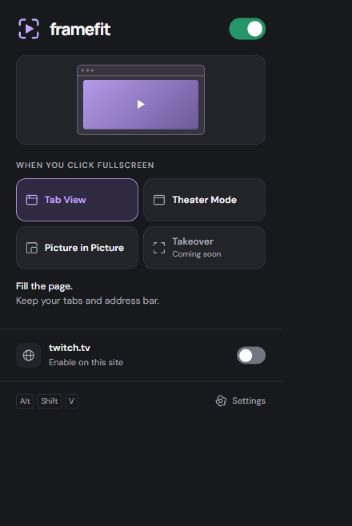
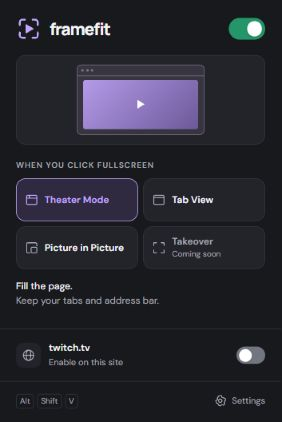
Release FrameFit 2.5.1 with corrected viewing mode names

diff --git a/README.md b/README.md
@@ -2,12 +2,12 @@
 
 # FrameFit Extension
 
-Current version: **2.5.0**
+Current version: **2.5.1**
 
 [Download FrameFit Extension.zip](./FrameFit%20Extension.zip?raw=true)
 
 Make room to watch. FrameFit turns supported video fullscreen buttons into
-**Tab View**, **Theater Mode**, or native **Picture in Picture**.
+**Theater Mode**, **Tab View**, or native **Picture in Picture**.
 
 ## Studio menu
 
@@ -32,16 +32,16 @@ Requires Chrome 119 or later. Websites start off until you enable them.
 ## Use and update
 
 Choose a viewing mode, then click a video's fullscreen button or use **Alt+Shift+V**.
-Tab View fills the page while keeping browser controls. Theater Mode puts the
+Theater Mode fills the page while keeping browser controls. Tab View puts the
 same video tab in a separate window with Chrome's title and URL bars. Picture in
 Picture floats above other apps; some videos do not allow it.
 
-In Theater Mode, **Return to tab** or **Esc** restores the page and returns the same
+In Tab View, **Return to tab** or **Esc** restores the page and returns the same
 video tab. The window's native **X** closes the video tab. Close confirmation
 defaults on, but Chrome controls when its generic Leave/Cancel warning appears.
-Settings includes close confirmation and a switch to restore hidden Theater tips.
+Settings includes close confirmation and a switch to restore hidden Tab View tips.
 
-For updates, exit Theater Mode, replace the contents of your existing installation
+For updates, exit Tab View, replace the contents of your existing installation
 folder with the new package, reload FrameFit at `chrome://extensions`, and refresh
 video tabs. **After upgrading to 2.5.0, enable each video website in the menu.**
 Global, viewing-mode, close-confirmation, and tip preferences are retained.
@@ -54,6 +54,8 @@ This repository distributes the installable extension only. Development tools,
 tests, editable artwork, and development history are maintained separately.
 The ZIP necessarily includes the JavaScript, HTML, CSS, fonts, and images Chrome
 runs; those bundled files can be inspected.
+
+Version 2.5.1 corrects the mode names without changing your saved selection or player behavior.
 
 Version 2.5.0 redesigns the menu and adds explicit site opt-in. It retains the
 YouTube sizing and X playback repairs from 2.4.6. Takeover is not implemented.

diff --git a/PRIVACY.md b/PRIVACY.md
@@ -2,7 +2,7 @@
 
 Last updated: September 29, 2026
 
-This policy describes FrameFit 2.5.0, maintained by the GitHub account
+This policy describes FrameFit 2.5.1, maintained by the GitHub account
 [band-band](https://github.com/band-band).
 
 ## What FrameFit does
